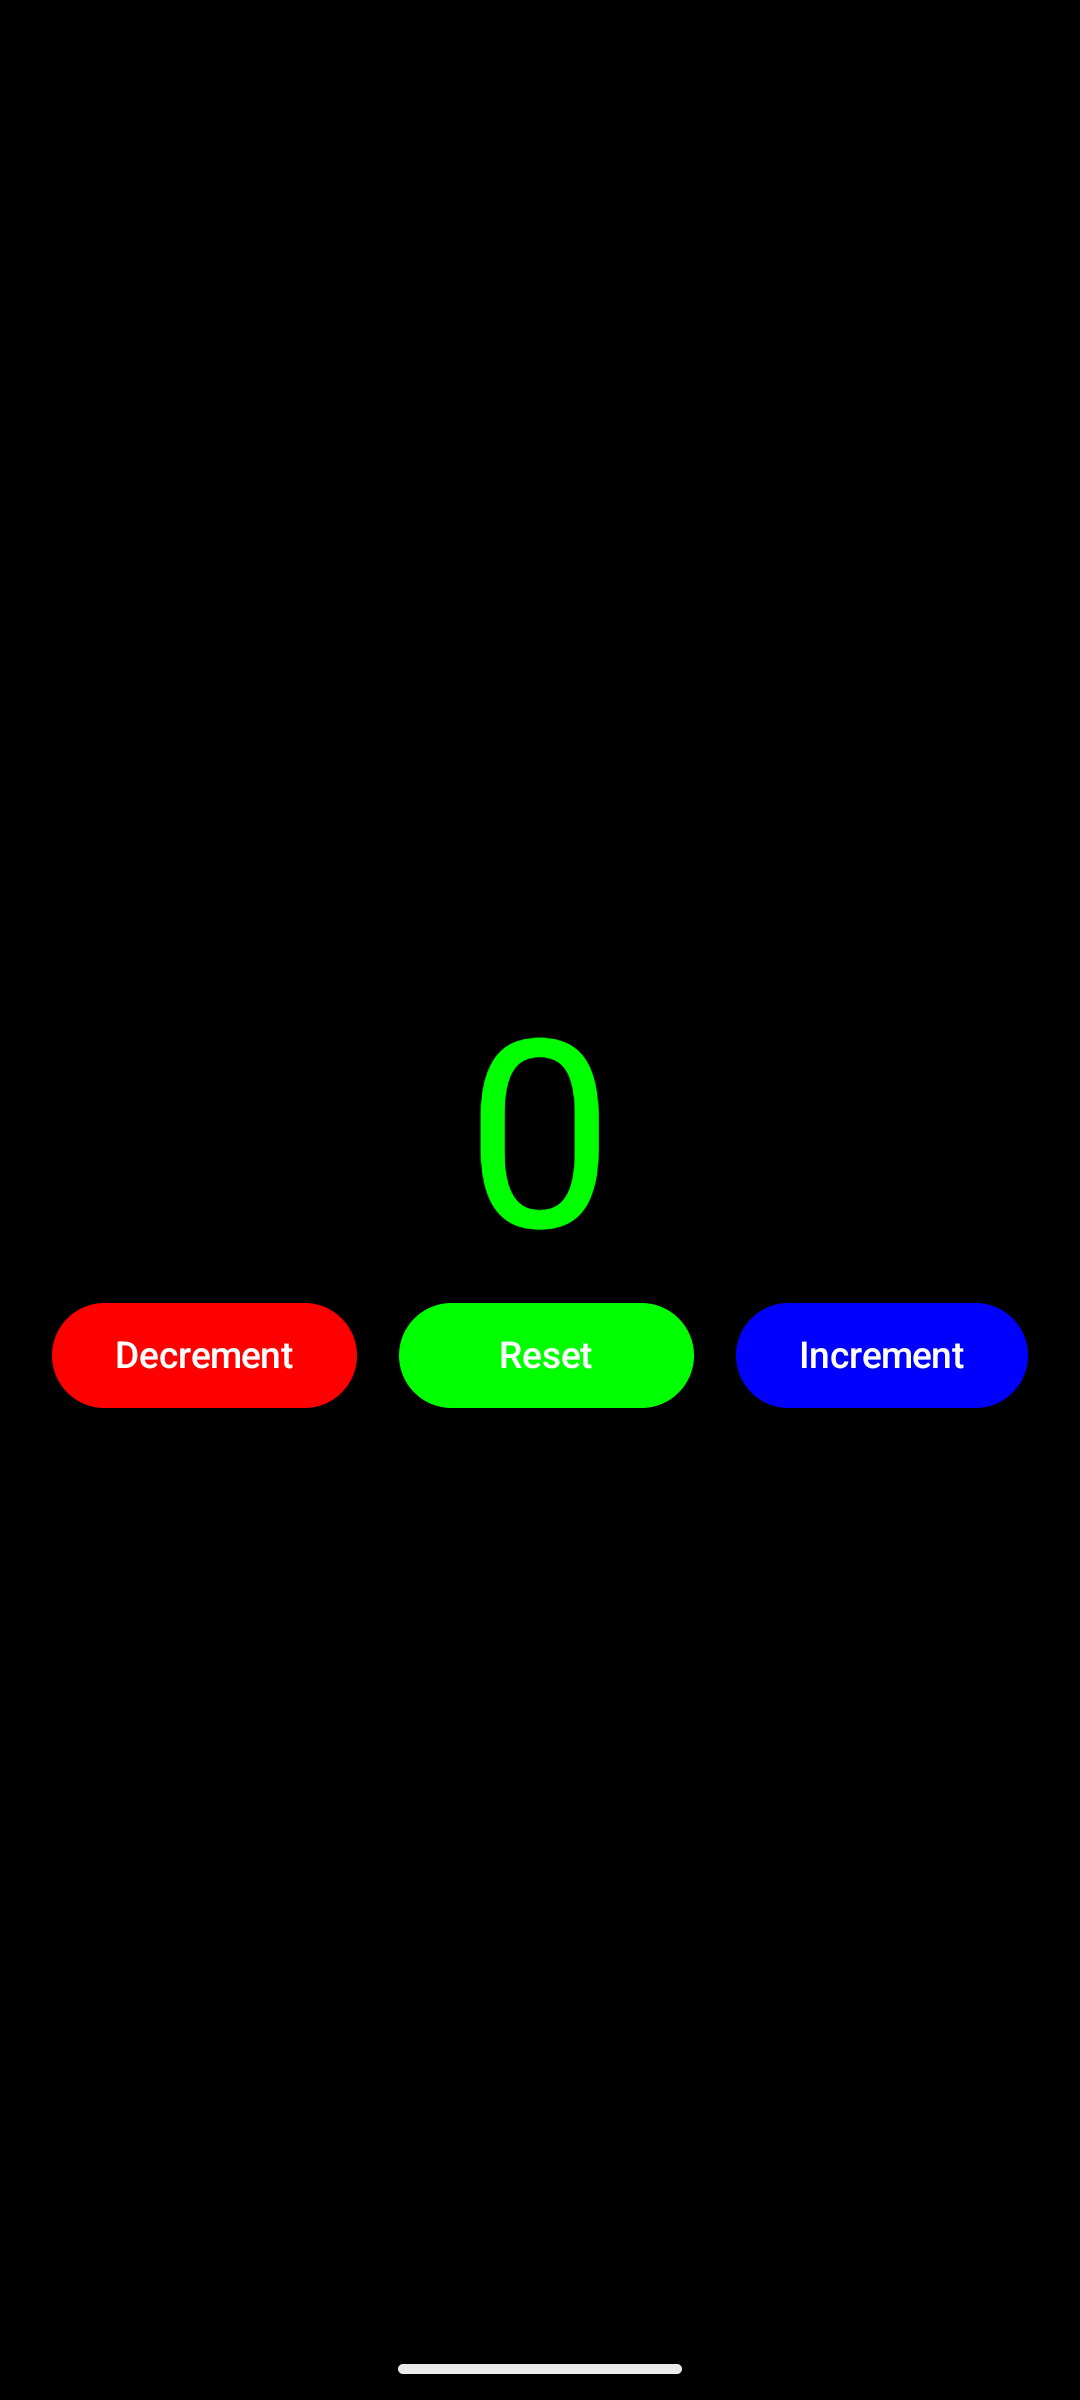
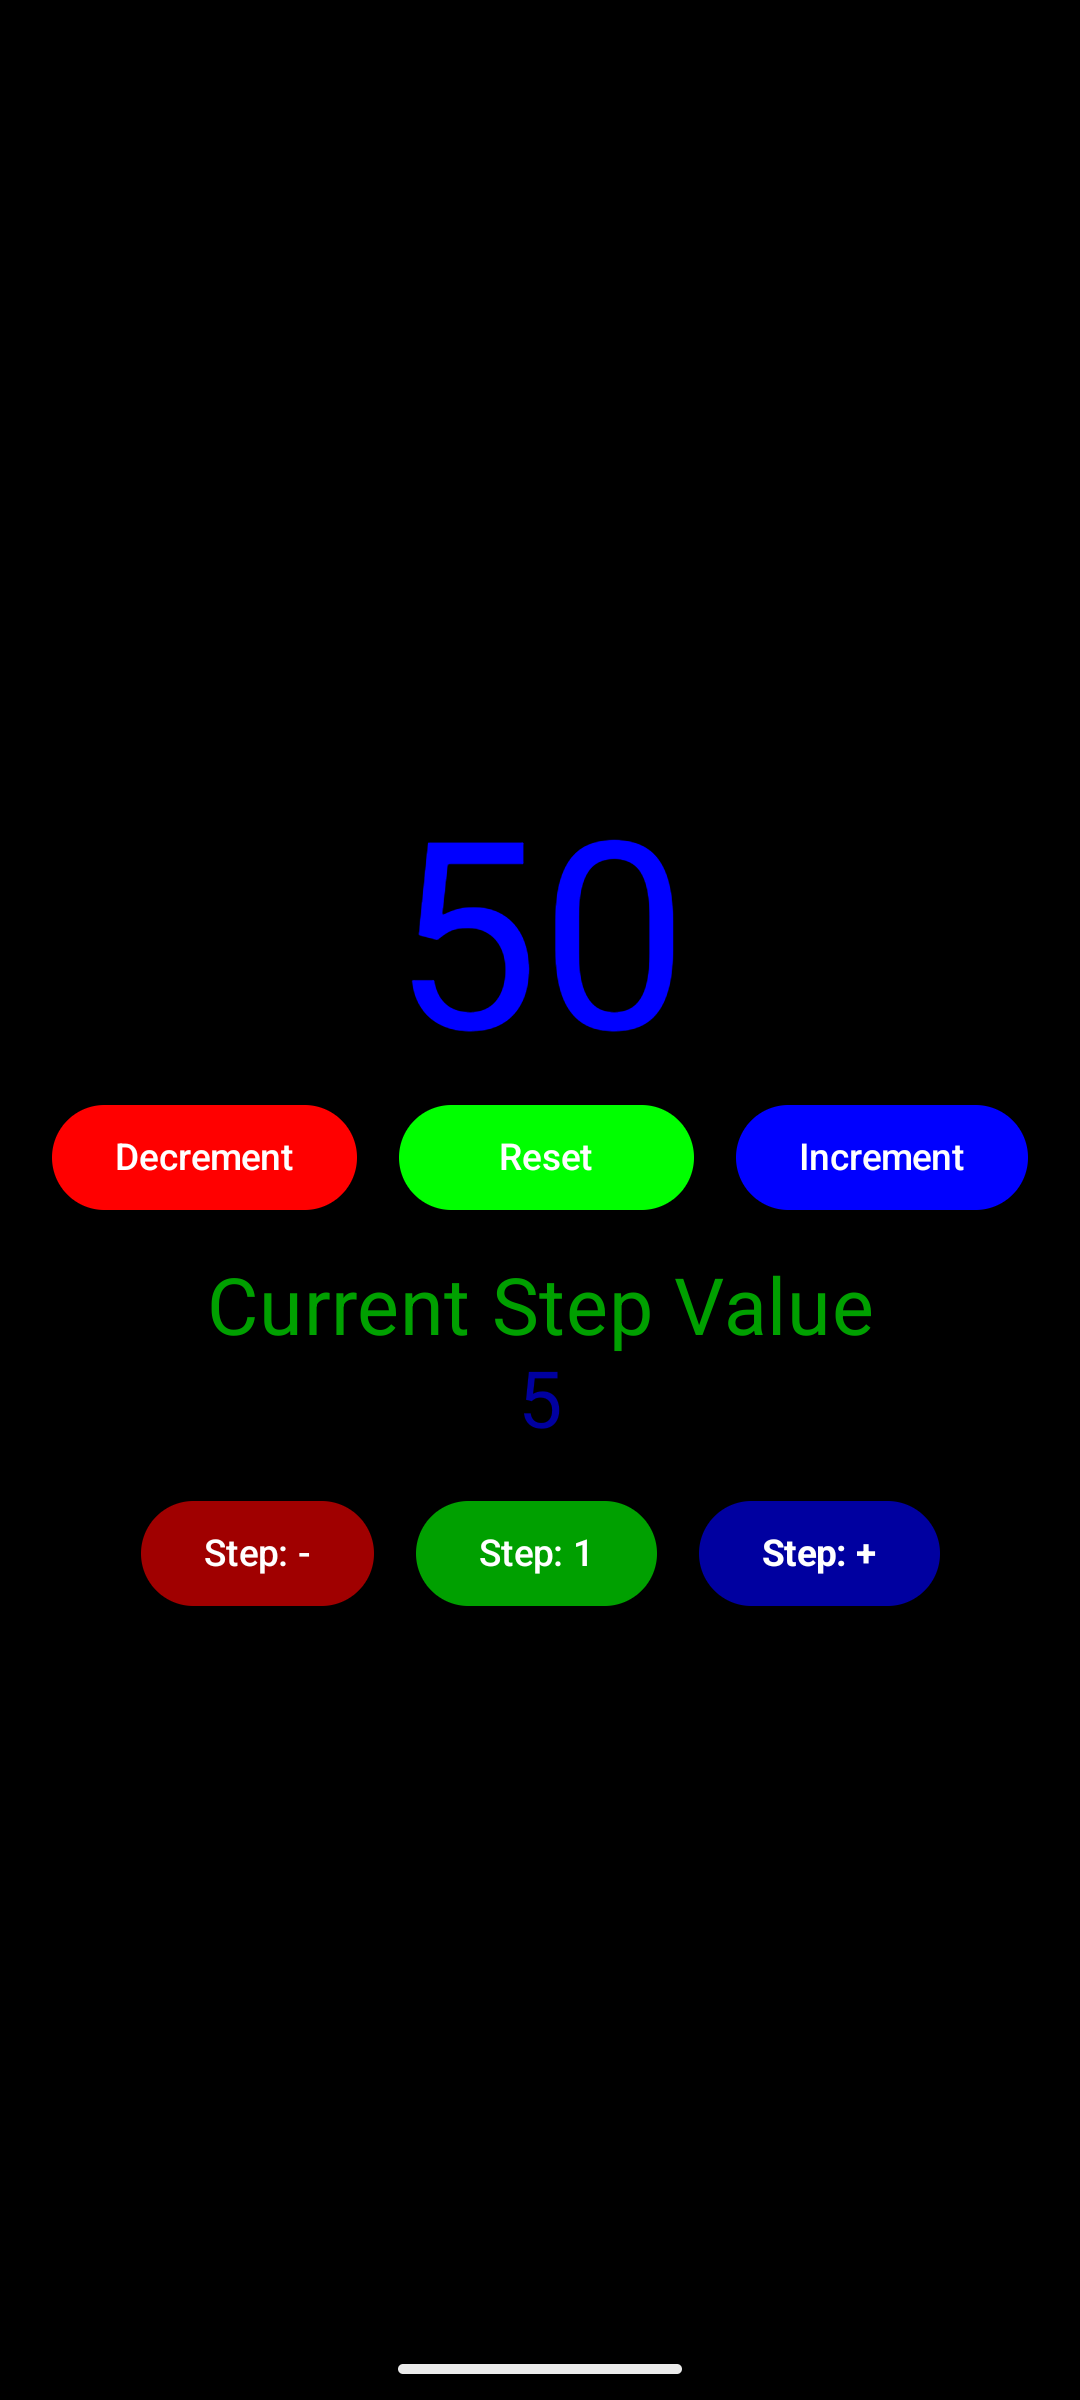
v2.0.0

Changed region(s): [[0.0306, 0.3438, 0.9472, 0.5938], [0.1222, 0.625, 0.6111, 0.6875], [0.6417, 0.625, 0.8861, 0.6875]]

diff --git a/app/src/main/java/com/infinitysoftware/mvvm_counter/view/View.kt b/app/src/main/java/com/infinitysoftware/mvvm_counter/view/View.kt
@@ -1,6 +1,7 @@
 package com.infinitysoftware.mvvm_getdata.view
 
 import androidx.compose.foundation.background
+import androidx.compose.foundation.clickable
 import androidx.compose.foundation.layout.Arrangement
 import androidx.compose.foundation.layout.Box
 import androidx.compose.foundation.layout.Column
@@ -15,9 +16,10 @@ import androidx.compose.runtime.Composable
 import androidx.compose.ui.Modifier
 import androidx.compose.ui.graphics.Color
 import androidx.compose.ui.unit.sp
-import androidx.compose.runtime.getValue
 import androidx.compose.runtime.livedata.observeAsState
+import androidx.compose.runtime.getValue
 import androidx.compose.ui.Alignment
+import androidx.compose.ui.text.font.FontWeight.Companion.Bold
 import androidx.compose.ui.unit.dp
 import com.infinitysoftware.mvvm_getdata.ui.theme.*
 import com.infinitysoftware.mvvm_getdata.viewmodel.CounterViewModel
@@ -25,7 +27,10 @@ import com.infinitysoftware.mvvm_getdata.viewmodel.CounterViewModel
 @Composable
 fun CounterView(viewModel: CounterViewModel) {
     val count by viewModel.count.observeAsState(0)
+    val countStep by viewModel.countStep.observeAsState(1)
+
     var counterFontColor = NeutralCounterFontColor
+    var counterStepFontColor = NeutralCounterStepFontColor
 
     if (count > 0) {
         counterFontColor = IncrementButtonBackgroundColor
@@ -33,11 +38,12 @@ fun CounterView(viewModel: CounterViewModel) {
         counterFontColor = DecrementButtonBackgroundColor
     }
 
-    println(count)
+    if (countStep > 1) {
+        counterStepFontColor = IncrementCounterStepFontColor
+    }
 
     Box(modifier = Modifier.fillMaxSize().background(Color.Black), contentAlignment = Alignment.Center) {
         Column(horizontalAlignment = Alignment.CenterHorizontally, verticalArrangement = Arrangement.Center) {
-
 
             Text(text = "$count", fontSize = 100.sp, color = counterFontColor)
 
@@ -61,6 +67,39 @@ fun CounterView(viewModel: CounterViewModel) {
                 Column(horizontalAlignment = Alignment.CenterHorizontally, verticalArrangement = Arrangement.Center) {
                     Button(onClick = { viewModel.counterIncrement() }, colors = ButtonDefaults.buttonColors(containerColor = IncrementButtonBackgroundColor)) {
                         Text(text = "Increment")
+                    }
+                }
+            }
+
+            Spacer(modifier = Modifier.size(16.dp))
+
+            Column(horizontalAlignment = Alignment.CenterHorizontally) {
+                Text(text = "Current Step Value", fontSize = 30.sp, color = NeutralCounterStepFontColor)
+                Text(text = "$countStep", fontSize = 30.sp, color = counterStepFontColor, modifier = Modifier.clickable(onClick = { isCountStepEditable = !isCountStepEditable } ))
+            }
+
+            Spacer(modifier = Modifier.size(16.dp))
+
+            Row {
+                Column(horizontalAlignment = Alignment.CenterHorizontally, verticalArrangement = Arrangement.Center) {
+                    Button(onClick = { viewModel.counterStepDecrement() }, colors = ButtonDefaults.buttonColors(containerColor = DecrementCounterStepFontColor)) {
+                        Text(text = "Step: -")
+                    }
+                }
+
+                Spacer(modifier = Modifier.size(16.dp))
+
+                Column(horizontalAlignment = Alignment.CenterHorizontally, verticalArrangement = Arrangement.Center) {
+                    Button(onClick = { viewModel.counterStepReset() }, colors = ButtonDefaults.buttonColors(containerColor = NeutralCounterStepFontColor)) {
+                        Text(text = "Step: 1")
+                    }
+                }
+
+                Spacer(modifier = Modifier.size(16.dp))
+
+                Column(horizontalAlignment = Alignment.CenterHorizontally, verticalArrangement = Arrangement.Center) {
+                    Button(onClick = { viewModel.counterStepIncrement() }, colors = ButtonDefaults.buttonColors(containerColor = IncrementCounterStepFontColor)) {
+                        Text(text = "Step: +", fontWeight = Bold)
                     }
                 }
             }

diff --git a/app/src/main/java/com/infinitysoftware/mvvm_counter/viewmodel/ViewModel.kt b/app/src/main/java/com/infinitysoftware/mvvm_counter/viewmodel/ViewModel.kt
@@ -6,19 +6,37 @@ import androidx.lifecycle.ViewModel
 
 class CounterViewModel: ViewModel() {
     private val _count = MutableLiveData(0)
+    private val _countStep = MutableLiveData(1)
+
     val count: LiveData<Int> = _count
+    val countStep: LiveData<Int> = _countStep
 
     fun counterIncrement() {
         val currentCountValue = _count.value ?: 0
-        _count.value = currentCountValue + 1
+        _count.value = currentCountValue + countStep.value
     }
 
     fun counterDecrement() {
         val currentCountValue = _count.value ?: 0
-        _count.value = currentCountValue - 1
+        _count.value = currentCountValue - countStep.value
     }
 
     fun counterReset() {
         _count.value = 0
+    }
+
+    fun counterStepIncrement() {
+        val currentCountStepValue = _countStep.value ?: 0
+        _countStep.value = currentCountStepValue + 1
+    }
+
+    fun counterStepDecrement() {
+        val currentCountStepValue = _countStep.value ?: 0
+        val currentCountStepBound = currentCountStepValue - 1
+        _countStep.value = if (currentCountStepBound < 1) 1 else currentCountStepBound
+    }
+
+    fun counterStepReset() {
+        _countStep.value = 1
     }
 }

diff --git a/app/src/main/java/com/infinitysoftware/mvvm_counter/ui/theme/Color.kt b/app/src/main/java/com/infinitysoftware/mvvm_counter/ui/theme/Color.kt
@@ -13,3 +13,7 @@ val Pink40 = Color(0xFF7D5260)
 val NeutralCounterFontColor = Color(0xFF00FF00)
 val DecrementButtonBackgroundColor = Color(0xFFFF0000)
 val IncrementButtonBackgroundColor = Color(0xFF0000FF)
+
+val NeutralCounterStepFontColor = Color(0xFF00A000)
+val DecrementCounterStepFontColor = Color(0xFFA00000)
+val IncrementCounterStepFontColor = Color(0xFF0000A0)
